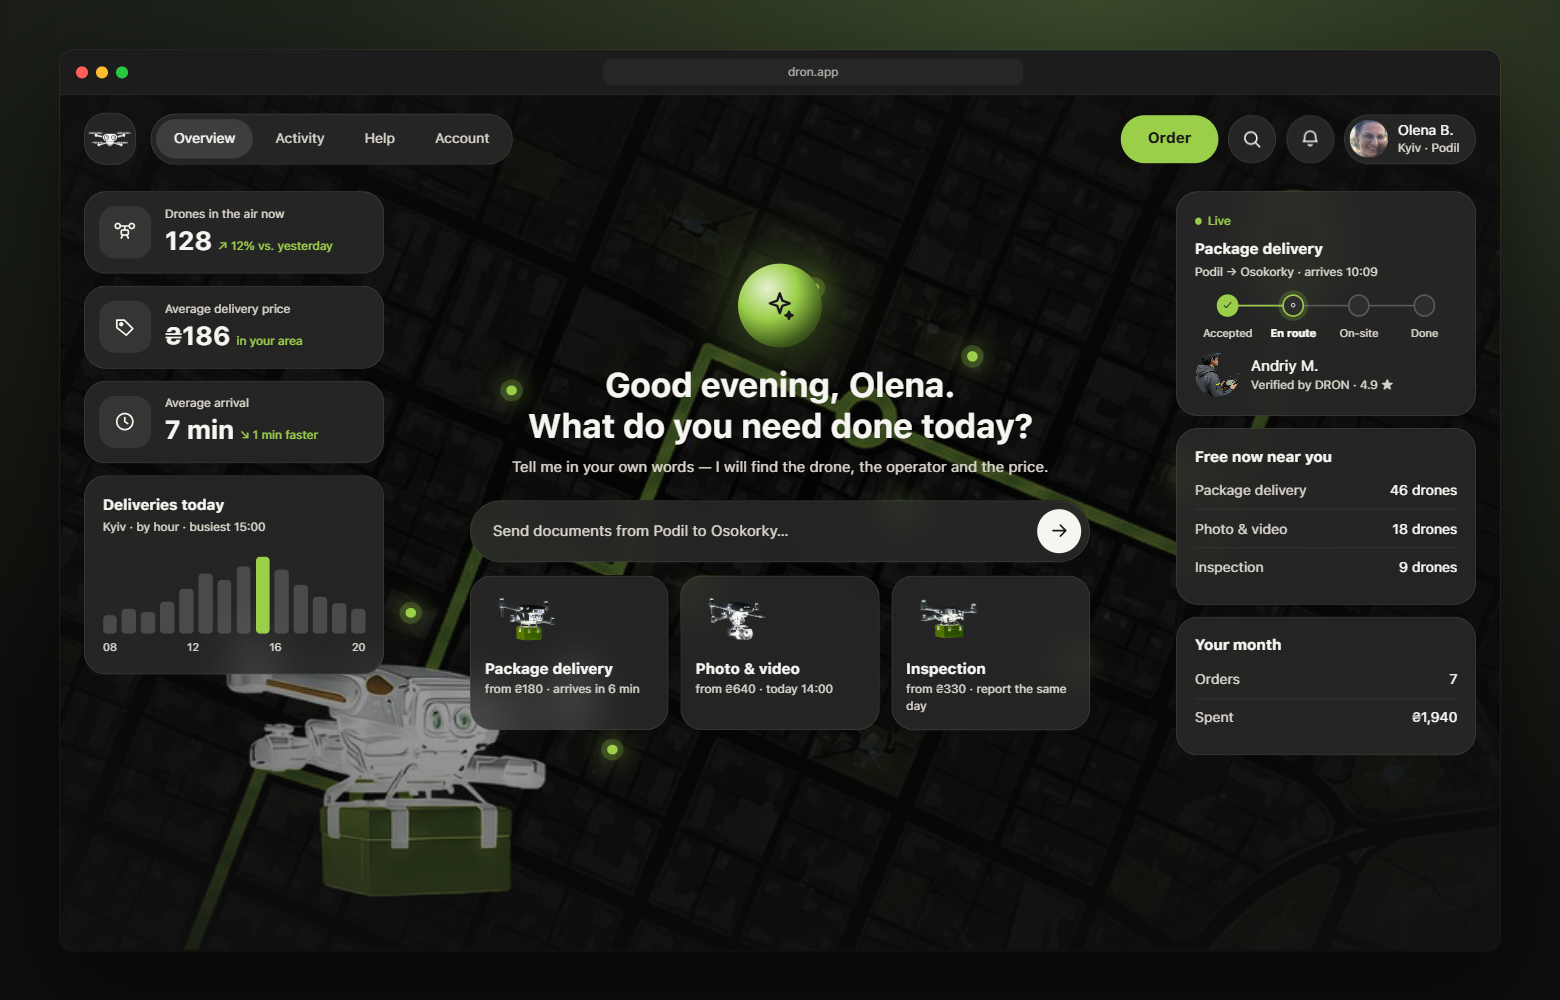
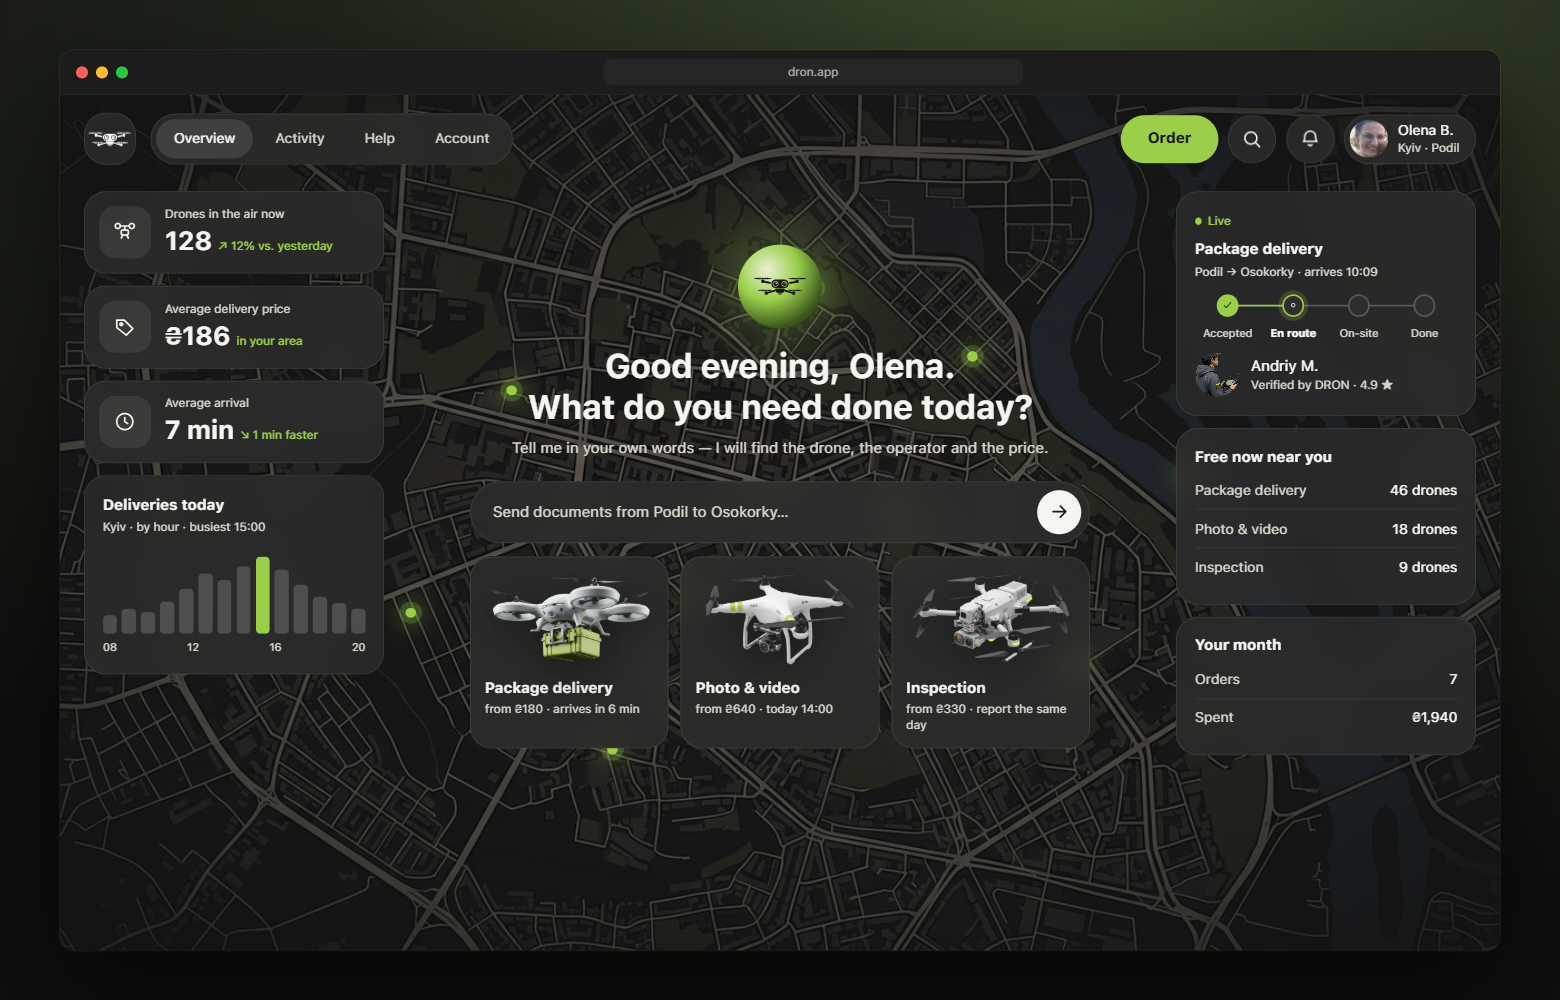
AI preview: dark map and white drones from Figma, DRON mark in the agent, Order opens the window

diff --git a/responsive/_preview-desktop-ai.html b/responsive/_preview-desktop-ai.html
@@ -19,8 +19,7 @@
   .mac__dots { display:flex; gap:8px; } .mac__dots i { width:12px; height:12px; border-radius:50%; display:block; }
   .mac__url { margin:0 auto; width:420px; height:26px; border-radius:8px; background:#262626; color:#A9A6A0; display:grid; place-items:center; font-size:12px; }
   .x { position:relative; flex:1; min-height:0; color: var(--text-primary); }
-  .x-map { position:absolute; inset:0; background: url(../assets/map/live-map.jpg) center/cover;
-           filter: invert(1) hue-rotate(180deg) brightness(.9) contrast(1.05) saturate(.6); }
+  .x-map { position:absolute; inset:0; background: url(preview-art/map-dark.jpg) center/cover; }
   .x-veil { position:absolute; inset:0; background: radial-gradient(70% 65% at 50% 48%, rgba(18,18,18,.15) 0%, rgba(18,18,18,.45) 70%, rgba(18,18,18,.8) 100%); }
   .x-dot { position:absolute; width:10px; height:10px; border-radius:50%; background: var(--color-action);
            box-shadow: 0 0 0 6px color-mix(in srgb, var(--color-action) 22%, transparent), 0 0 24px 6px color-mix(in srgb, var(--color-action) 45%, transparent); }
@@ -67,7 +66,8 @@
   .x-orb { width:84px; height:84px; margin:0 auto 18px; border-radius:50%;
            background: radial-gradient(circle at 35% 30%, #E7F0D2 0%, #9BCF4A 38%, #3E5A1C 72%, #1A1A1A 100%);
            box-shadow: 0 0 60px 10px color-mix(in srgb, var(--color-action) 35%, transparent); display:grid; place-items:center; color:#1A1A1A; }
-  .x-orb svg { width:34px; height:34px; }
+  .x-orb .dr-brand { width:54px; height:20px; background:#1A1A1A; }
+  .x-talk .x-orb .dr-brand { width:26px; height:10px; }
   .x-agent h1 { margin:0; font-size:34px; line-height:1.2; font-weight:600; letter-spacing:-.02em; }
   .x-agent p { margin:10px 0 22px; color: var(--text-muted); font-size: var(--type-heading-size); }
   .x-ask { display:flex; align-items:center; gap:10px; padding:8px 8px 8px 22px; border-radius:999px; text-align:left; }
@@ -75,7 +75,7 @@
   .x-ask .x-circ { width:44px; height:44px; background: var(--text-primary); color: var(--bg-page); }
   .x-svcs { display:grid; grid-template-columns: repeat(3, 1fr); gap:12px; margin-top:14px; }
   .x-svc { display:flex; flex-direction:column; align-items:flex-start; gap:2px; padding:14px; text-decoration:none; color: var(--text-primary); text-align:left; }
-  .x-svc img { width:96px; height:64px; object-fit:contain; margin:-4px 0 6px -6px; }
+  .x-svc img { width:100%; height:96px; object-fit:contain; margin:0 0 8px; filter: drop-shadow(0 10px 18px rgba(0,0,0,.45)); }
   .x-svc b { font-size: var(--type-heading-size); font-weight: var(--type-weight-medium); }
   .x-svc span { color: var(--text-muted); font-size: var(--type-caption-size); }
   /* state B: the order window */
@@ -93,6 +93,7 @@
   .is-order .x-modal, .is-order .x-dim { display:block; }
   .is-order .x-talk { display:flex; }
   .is-order .x-agent { display:none; }
+  .is-order .x-order { background: color-mix(in srgb, var(--text-primary) 12%, transparent); color: var(--text-primary); box-shadow:none; }
 </style>
 </head>
 <body>
@@ -107,7 +108,7 @@
       <span class="x-logo glass"><span class="dr-brand" role="img" aria-label="DRON"></span></span>
       <nav class="x-nav glass" aria-label="Primary"><a class="on" href="#">Overview</a><a href="#">Activity</a><a href="#">Help</a><a href="#">Account</a></nav>
       <div class="x-top__end">
-        <a class="dr-btn dr-btn--primary x-order" href="#">Order</a>
+        <a class="dr-btn dr-btn--primary x-order" href="#" data-open>Order</a>
         <span class="x-circ glass"><svg viewBox="0 0 24 24" fill="none" stroke="currentColor" stroke-width="1.7" stroke-linecap="round" stroke-linejoin="round" aria-hidden="true"><circle cx="11" cy="11" r="6.5"/><path d="M16 16l4.5 4.5"/></svg></span>
         <span class="x-circ glass"><svg class="dr-ic" viewBox="0 0 24 24" fill="none" stroke="currentColor" stroke-width="1.7" stroke-linecap="round" stroke-linejoin="round" aria-hidden="true"><path d="M12 3.4a5.9 5.9 0 0 0-5.9 5.9c0 4.1-1.5 5.3-1.5 5.3h14.8s-1.5-1.2-1.5-5.3A5.9 5.9 0 0 0 12 3.4Z"/><path d="M10.1 18a2.1 2.1 0 0 0 3.8 0"/></svg></span>
         <span class="x-me glass"><img src="../assets/people/thumbs/person-client-olena.png" alt=""><span>Olena B.<small>Kyiv · Podil</small></span></span>
@@ -145,14 +146,14 @@
     </aside>
 
     <section class="x-agent" aria-label="DRON assistant">
-      <div class="x-orb"><svg viewBox="0 0 24 24" fill="none" stroke="currentColor" stroke-width="1.7" stroke-linecap="round" stroke-linejoin="round" aria-hidden="true"><path d="M12 3.5l1.8 5.2 5.2 1.8-5.2 1.8L12 17.5l-1.8-5.2L5 10.5l5.2-1.8z"/><path d="M18.5 16.5l.7 1.8 1.8.7-1.8.7-.7 1.8-.7-1.8-1.8-.7 1.8-.7z"/></svg></div>
+      <div class="x-orb"><span class="dr-brand" role="img" aria-label="DRON"></span></div>
       <h1>Good evening, Olena.<br>What do you need done today?</h1>
       <p>Tell me in your own words — I will find the drone, the operator and the price.</p>
       <div class="x-ask glass"><span>Send documents from Podil to Osokorky…</span><span class="x-circ"><svg viewBox="0 0 24 24" fill="none" stroke="currentColor" stroke-width="1.7" stroke-linecap="round" stroke-linejoin="round" aria-hidden="true"><path d="M5 12h13M13 6l6 6-6 6"/></svg></span></div>
-      <div class="x-svcs"><a class="x-svc glass" href="#"><img src="../assets/drones/thumbs/drone-02-dark.png" alt=""><b>Package delivery</b><span>from ₴180 · arrives in 6 min</span></a><a class="x-svc glass" href="#"><img src="../assets/drones/thumbs/drone-flight-camera-dark.png" alt=""><b>Photo &amp; video</b><span>from ₴640 · today 14:00</span></a><a class="x-svc glass" href="#"><img src="../assets/drones/thumbs/drone-08-dark.png" alt=""><b>Inspection</b><span>from ₴330 · report the same day</span></a></div>
+      <div class="x-svcs"><a class="x-svc glass" href="#" data-open><img src="preview-art/drone-delivery.png" alt=""><b>Package delivery</b><span>from ₴180 · arrives in 6 min</span></a><a class="x-svc glass" href="#" data-open><img src="preview-art/drone-photo.png" alt=""><b>Photo &amp; video</b><span>from ₴640 · today 14:00</span></a><a class="x-svc glass" href="#" data-open><img src="preview-art/drone-inspection.png" alt=""><b>Inspection</b><span>from ₴330 · report the same day</span></a></div>
     </section>
 
-    <div class="x-dim"></div>
+    <div class="x-dim" data-close></div>
     <section class="x-modal glass" aria-label="New order">
       <h2>Package delivery</h2><p>Arrives in 6 min · the price is locked when you pay</p>
       <div class="x-route"><span><svg viewBox="0 0 24 24" fill="none" stroke="currentColor" stroke-width="1.7" stroke-linecap="round" stroke-linejoin="round" aria-hidden="true"><path d="M12 21s-6.5-6-6.5-11a6.5 6.5 0 0 1 13 0c0 5-6.5 11-6.5 11z"/><circle cx="12" cy="10" r="2.3"/></svg> Podil — Naberezhno-Khreshchatytska St, 21</span><span><svg viewBox="0 0 24 24" fill="none" stroke="currentColor" stroke-width="1.7" stroke-linecap="round" stroke-linejoin="round" aria-hidden="true"><path d="M12 21s-6.5-6-6.5-11a6.5 6.5 0 0 1 13 0c0 5-6.5 11-6.5 11z"/><circle cx="12" cy="10" r="2.3"/></svg> Osokorky — Dniprovska Naberezhna, 14</span></div>
@@ -187,9 +188,18 @@
         </fieldset>
       <a class="dr-btn dr-btn--primary dr-btn--block" href="#">Order · ₴180</a>
     </section>
-    <a class="x-talk glass" href="#"><span class="x-orb"><svg viewBox="0 0 24 24" fill="none" stroke="currentColor" stroke-width="1.7" stroke-linecap="round" stroke-linejoin="round" aria-hidden="true"><path d="M12 3.5l1.8 5.2 5.2 1.8-5.2 1.8L12 17.5l-1.8-5.2L5 10.5l5.2-1.8z"/><path d="M18.5 16.5l.7 1.8 1.8.7-1.8.7-.7 1.8-.7-1.8-1.8-.7 1.8-.7z"/></svg></span>Talk to AI</a>
+    <a class="x-talk glass" href="#" data-close><span class="x-orb"><span class="dr-brand" role="img" aria-label="DRON"></span></span>Talk to AI</a>
   </div>
 </div>
-<script>if (location.search.indexOf('order') > -1) document.getElementById('x').classList.add('is-order');</script>
+<script>
+  var x = document.getElementById('x');
+  function set(o) { x.classList.toggle('is-order', o); }
+  if (location.search.indexOf('order') > -1) set(true);
+  document.addEventListener('click', function (e) {
+    if (e.target.closest('[data-open]')) { e.preventDefault(); set(true); }
+    else if (e.target.closest('[data-close]')) { e.preventDefault(); set(false); }
+  });
+  document.addEventListener('keydown', function (e) { if (e.key === 'Escape') set(false); });
+</script>
 </body>
 </html>
